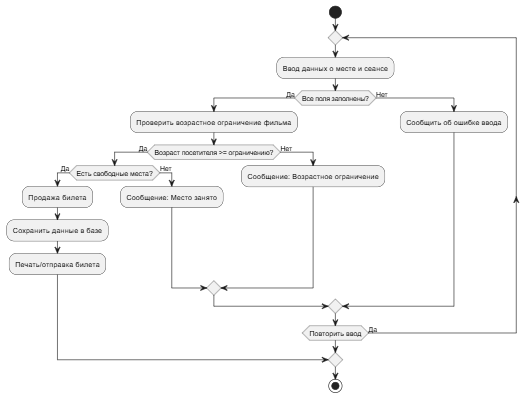
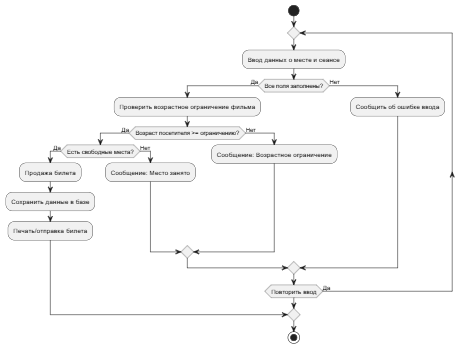
блок схема фикс

diff --git a/readme.md b/readme.md
@@ -65,7 +65,7 @@
 <img width="697" height="453" alt="image" src="https://github.com/user-attachments/assets/1356f51e-4eb5-4569-9d94-9a6116b60f4f" />
 
 ## 3 Блок схема
-![alt text](image-1.png)
+![alt text](image.png)
 ## ER диаграмма
 
 <img width="583" height="630" alt="image" src="https://github.com/user-attachments/assets/8bf73a73-e6b5-4946-8038-7b7bb2a4758c" />
